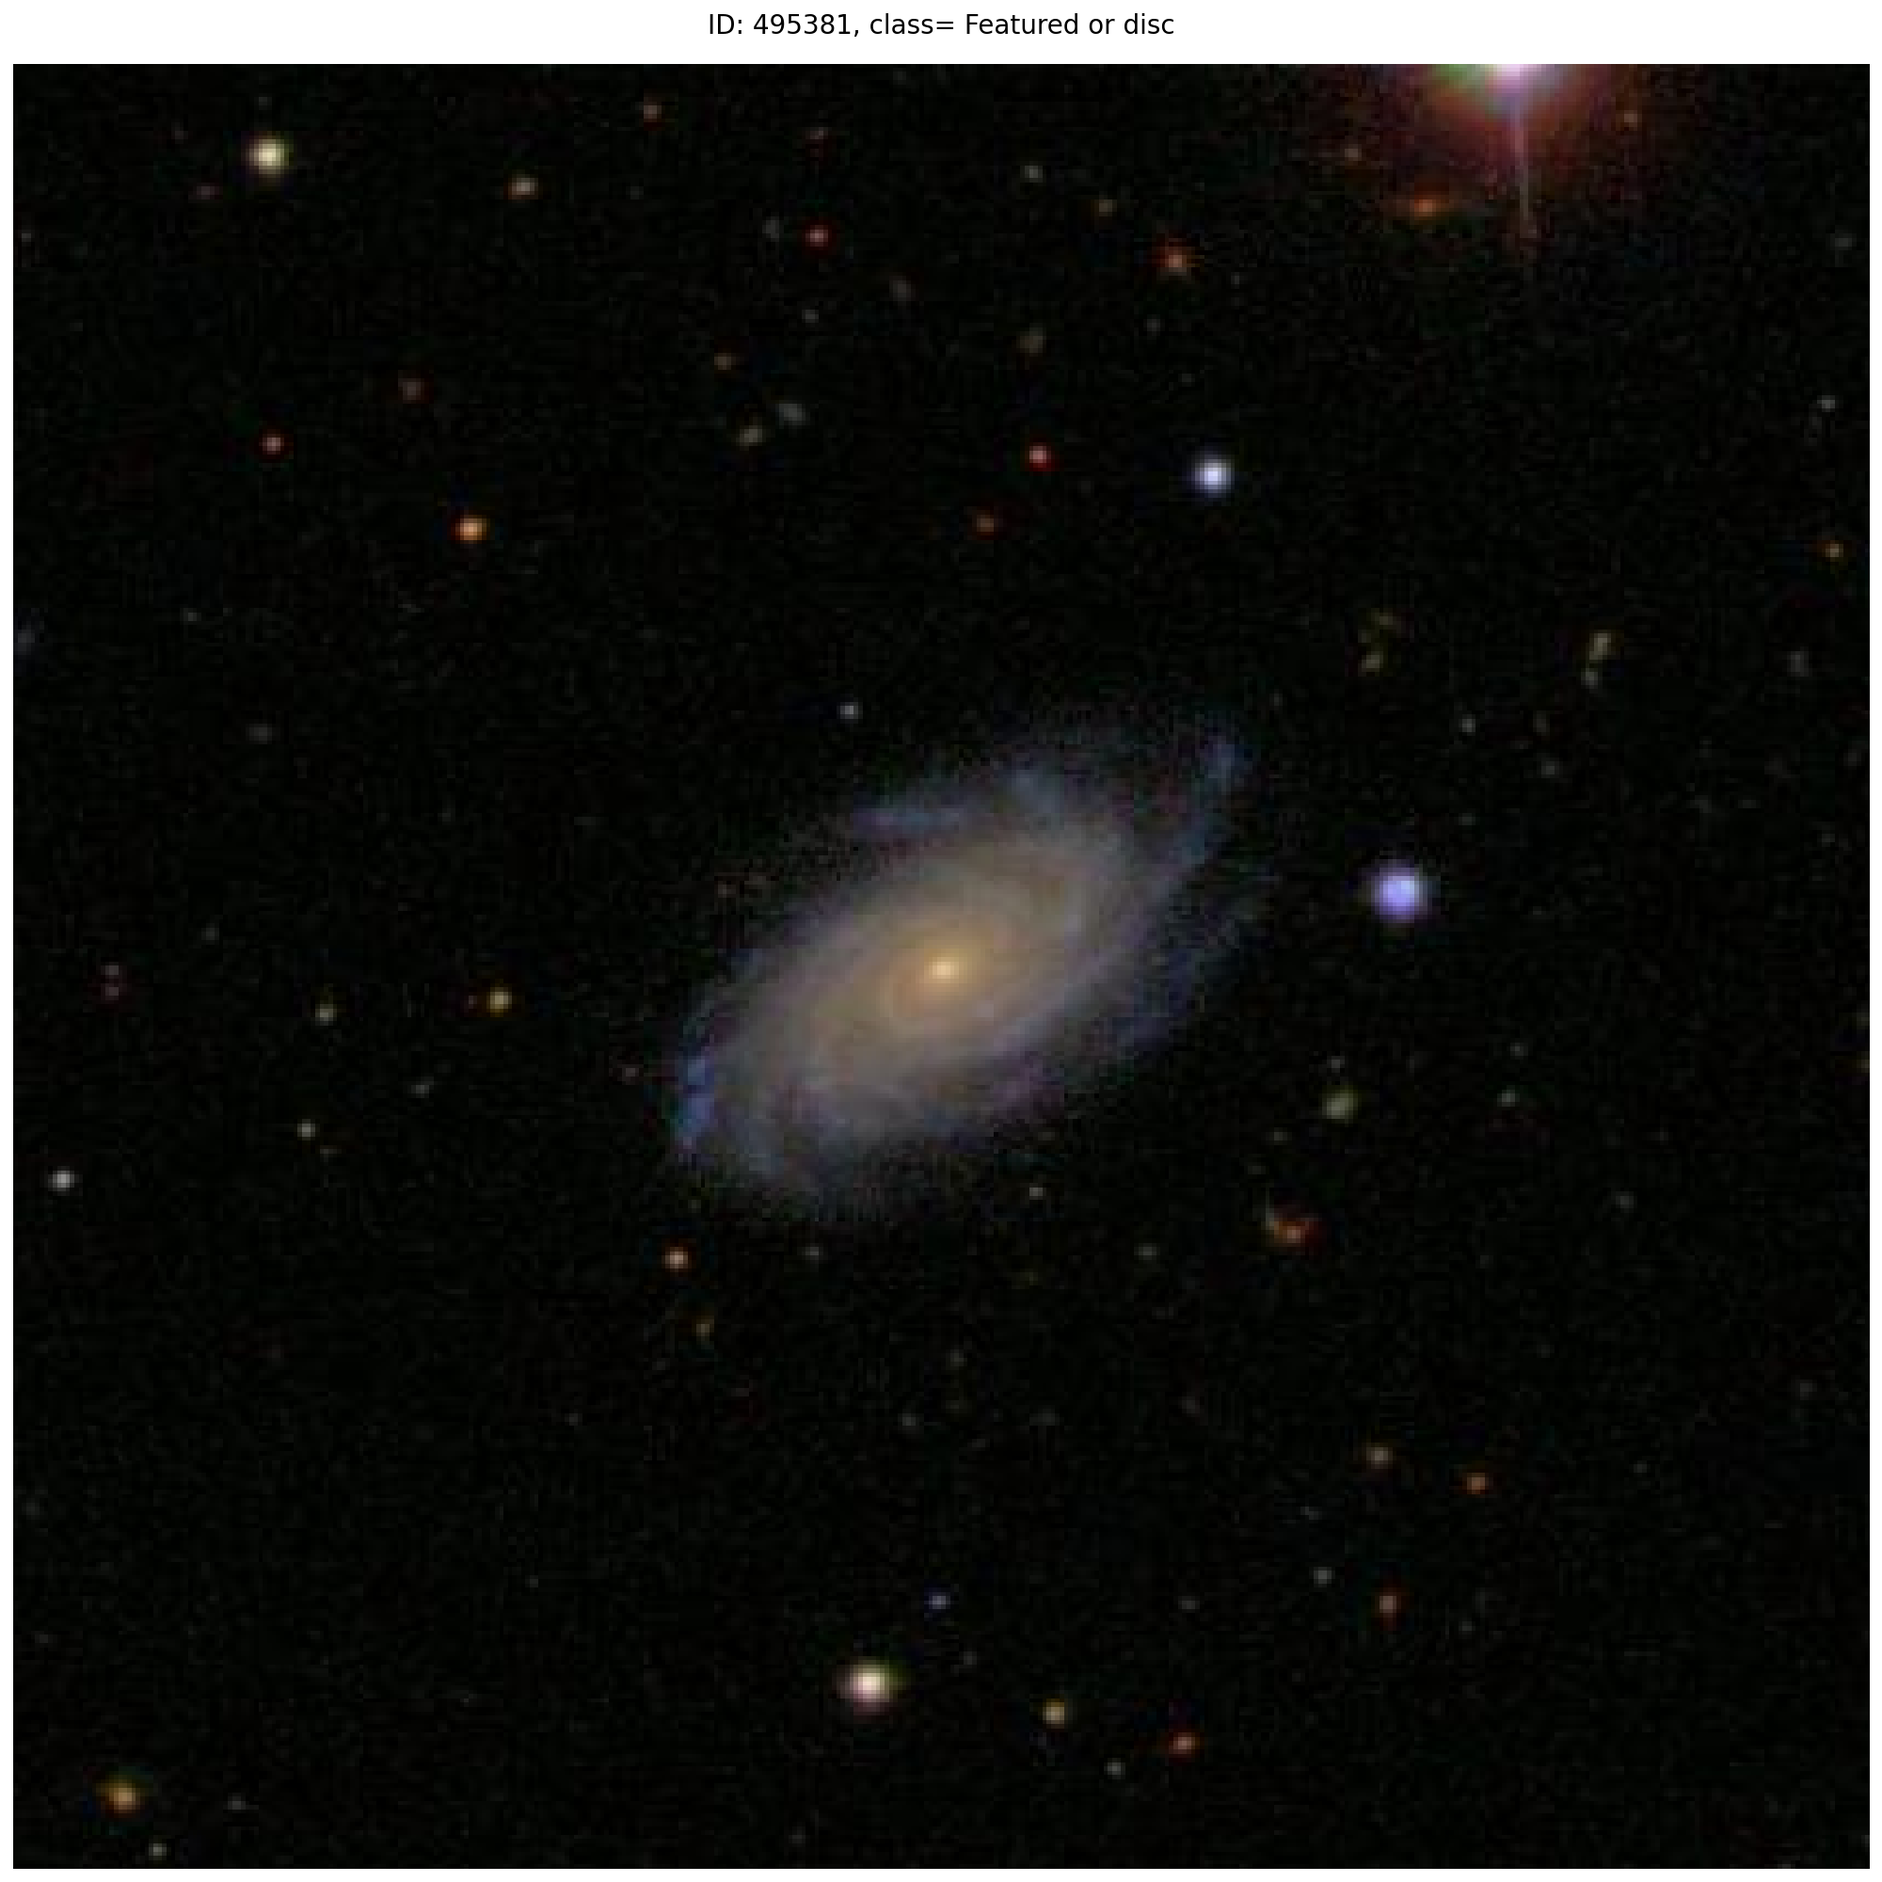
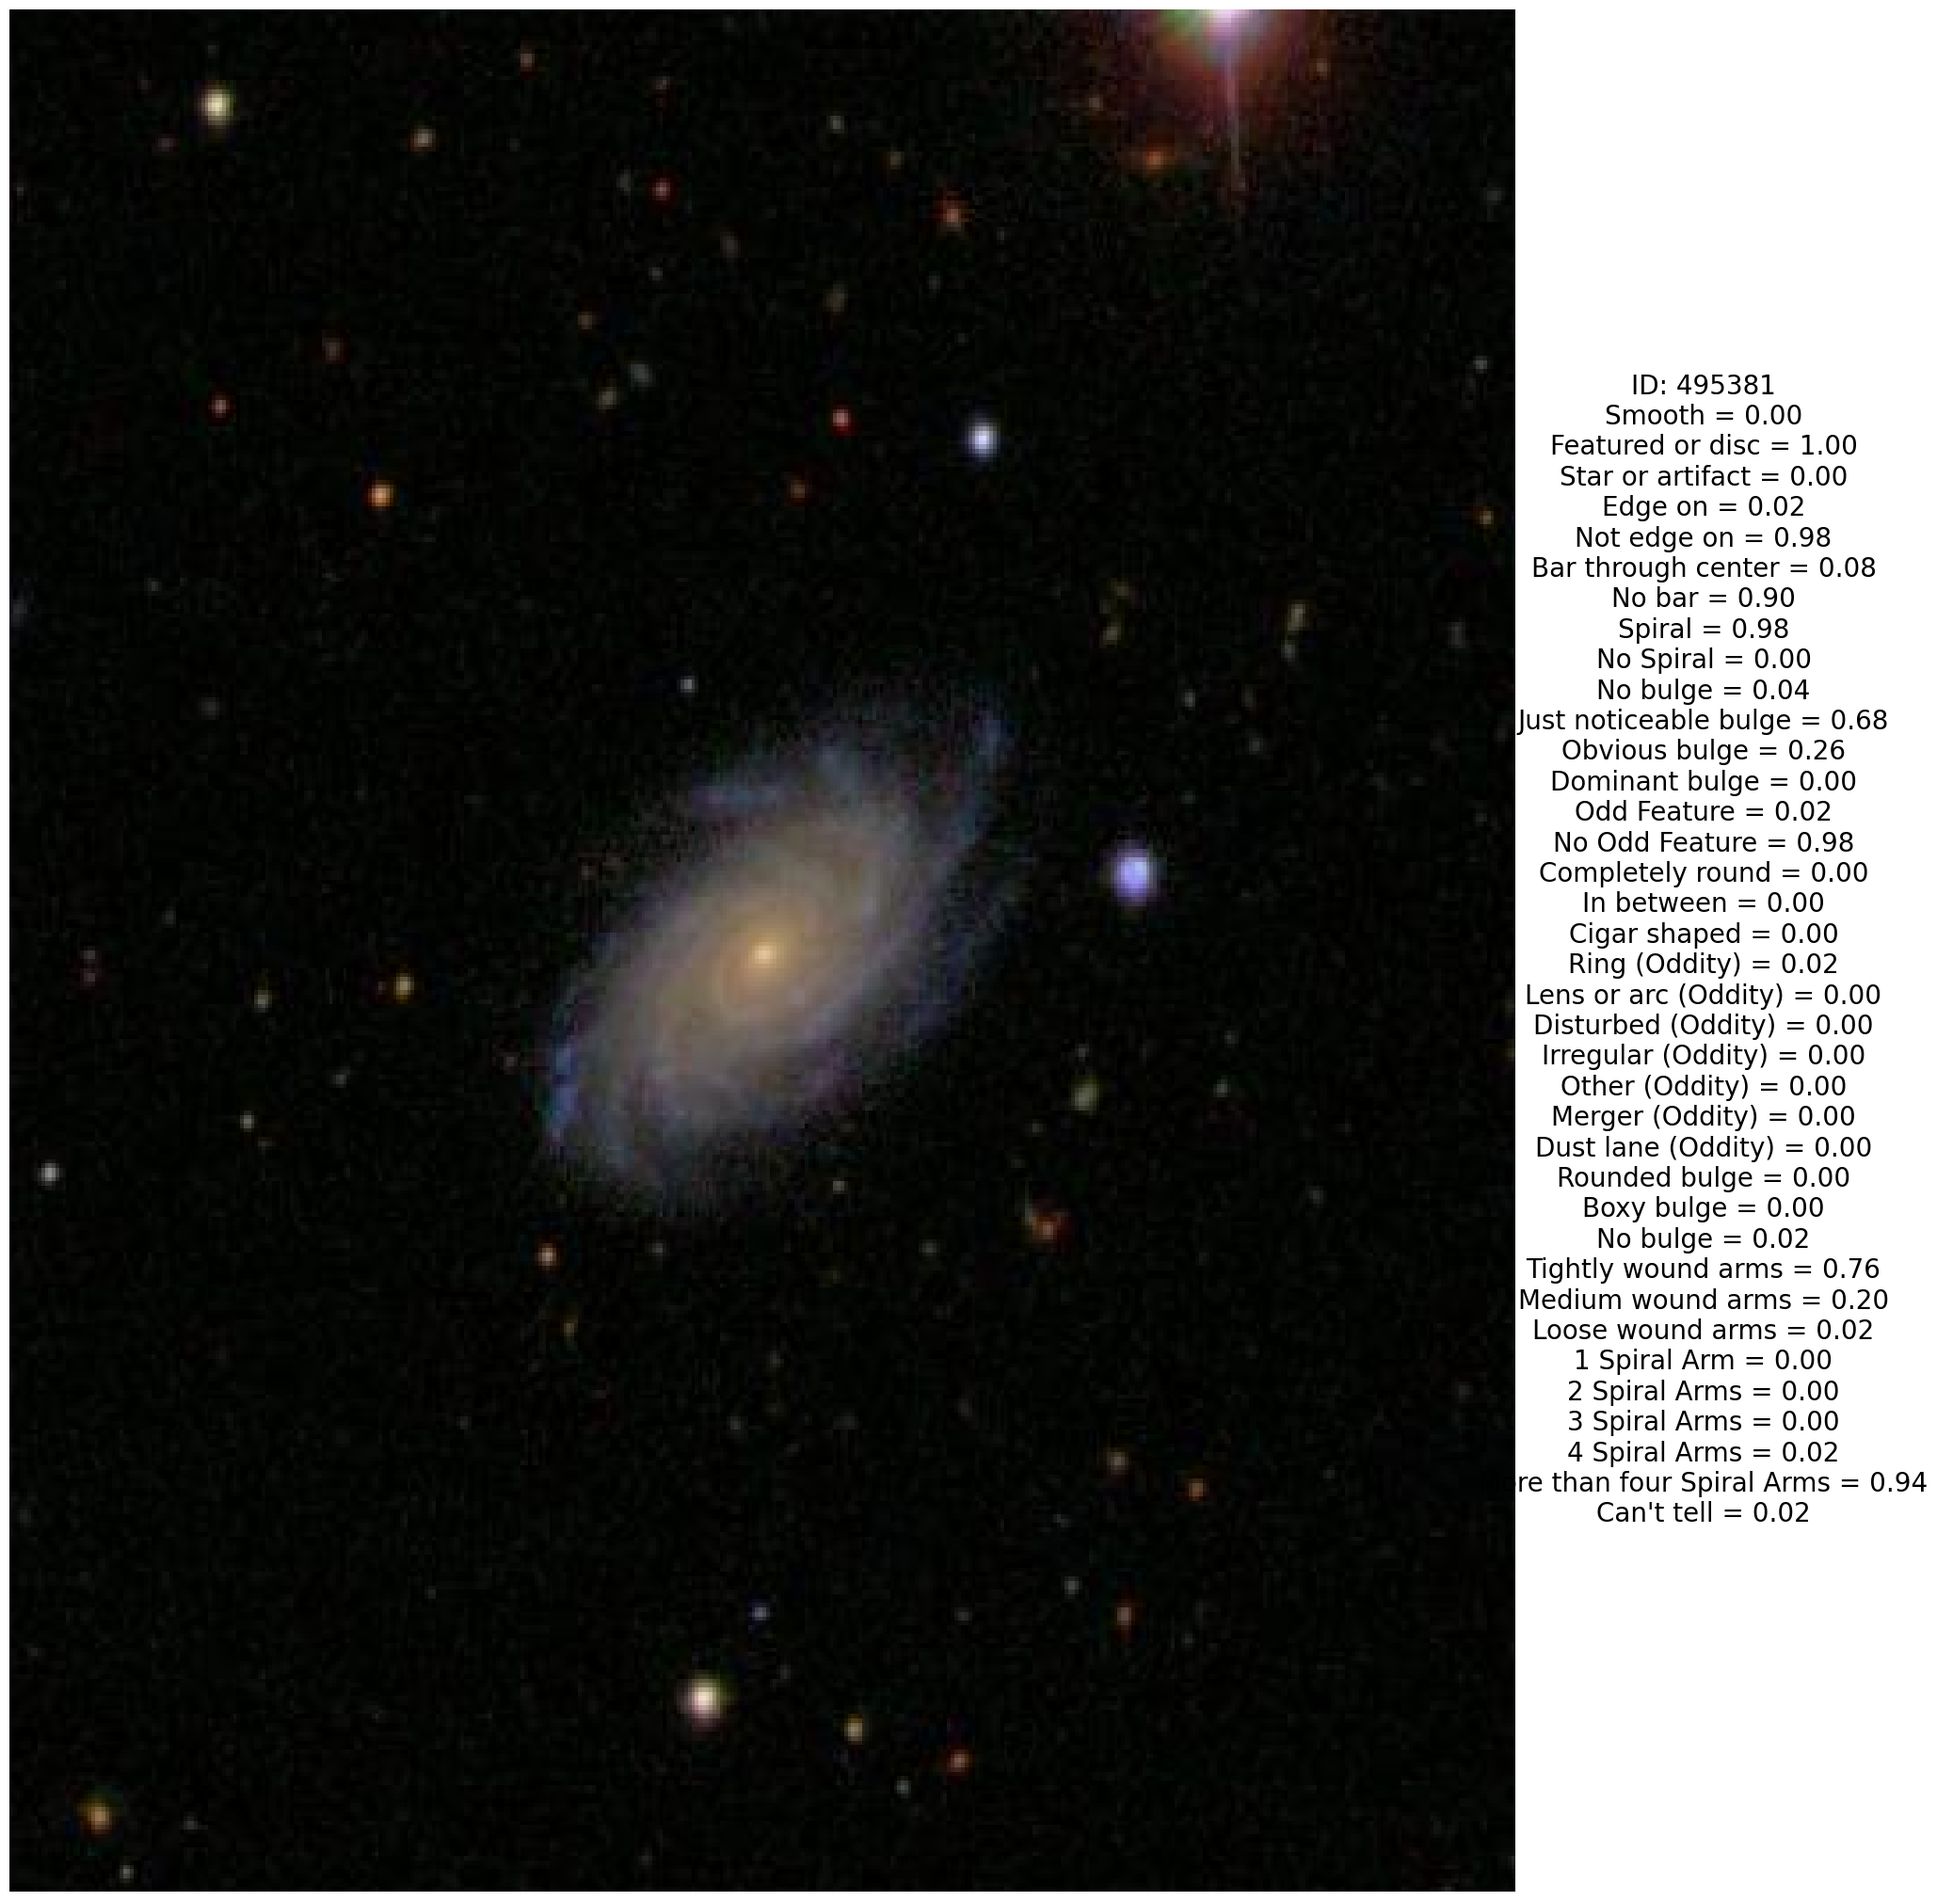
Updates

diff --git a/plot_image.py b/plot_image.py
@@ -1,5 +1,6 @@
 import pandas as pd
 import matplotlib.pyplot as plt
+from PIL import Image
 
 TRAINING_IMAGES = "galaxy_data/images_training_rev1/"
 labels = pd.read_csv('galaxy_data/training_solutions_rev1.csv')
@@ -15,17 +16,31 @@ for cl,gs in zip(classes,galaxy_shape):
 
 gal_id = 495381
 
-size = 15
-fig = plt.figure('Galaxy_Example', figsize=(20,20))
-plt.axis('off')
-plt.tick_params(axis='both', left='off', top='off', right='off', bottom='off', labelleft='off', labeltop='off', labelright='off', labelbottom='off')
+
+fig = plt.figure('Galaxy_Example', figsize=(20, 20))
+# Create axes for the image (left 80% of the figure width)
+ax_img = fig.add_axes([0, 0, 0.8, 1])  # [left, bottom, width, height]
+ax_img.axis('off')
+ax_img.tick_params(axis='both', which='both', 
+                   left=False, top=False, right=False, bottom=False,
+                   labelleft=False, labeltop=False, labelright=False, labelbottom=False)
+
+# Load and display the image
 img = plt.imread(f'{TRAINING_IMAGES}{gal_id}.jpg', format='jpg')
-plt.imshow(img, aspect='auto')
-typ = labels[labels['GalaxyID'] == gal_id].drop('GalaxyID', axis= 1).idxmax(axis= 1).iloc[0]
-plt.title(f'ID: {gal_id}, class= {galaxt_type_tupple[classes.index(typ)][1]}', fontsize=20)
-plt.axis('off')
-plt.imshow(img, aspect='auto')
-fig.tight_layout(pad=1.0)
-plt.savefig('Galaxy_Example.png')
+ax_img.imshow(img, aspect='auto')
+probs = row_array = labels[labels['GalaxyID'] == gal_id].values[0][1:]
+text=''
+it=0
+for typ in classes:
+    text = text + f'\n{galaxy_shape[it]} = {probs[it]:.2f}'
+    it+=1
+
+text = f'ID: {gal_id}{text}'
+
+# Place text in the white space (right 20% of the figure)
+fig.text(0.9, 0.5, text, fontsize= 20, ha='center', va='center')
+plt.savefig('Galaxy_Example.png', bbox_inches='tight')
+plt.close()
+
 
 
